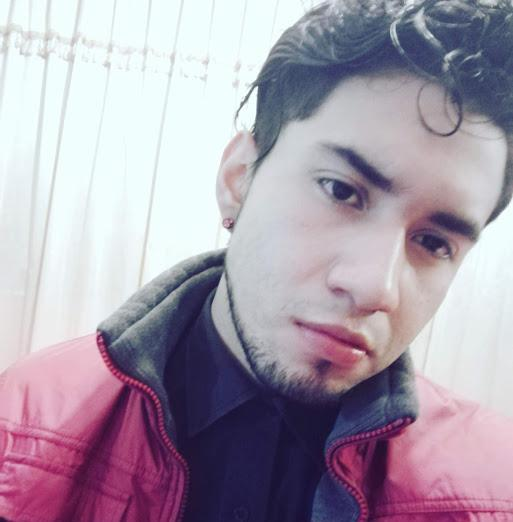
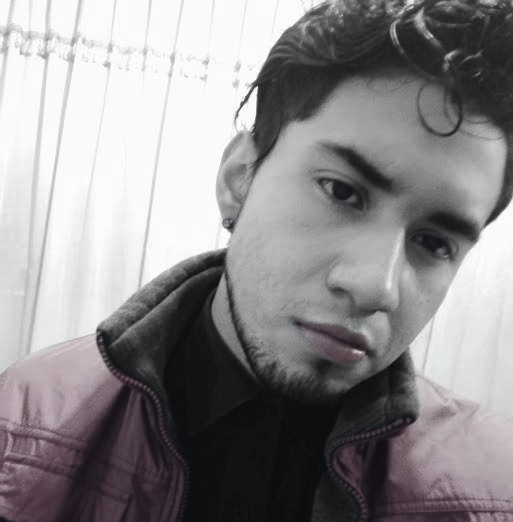
improve-photo-galery

diff --git a/photo/assets/css/main.css b/photo/assets/css/main.css
@@ -1411,12 +1411,13 @@
 	body {
 		background-color: rgb(31, 31, 31);
 		background: rgb(16,72,88);
-	background: -moz-linear-gradient(0deg, rgba(16,72,88,1) 0%, rgba(51,51,51,1) 100%);
-	background: -webkit-linear-gradient(0deg, rgba(16,72,88,1) 0%, rgba(51,51,51,1) 100%);
-	background: linear-gradient(0deg, rgba(16,72,88,1) 0%, rgba(51,51,51,1) 100%);
+	background: -moz-linear-gradient(0deg, rgb(9, 33, 39) 0%, rgb(32, 32, 32) 100%);
+	background: -webkit-linear-gradient(0deg, rgba(9, 33, 39,1) 0%, rgba(32, 32, 32,1) 100%);
+	background: linear-gradient(0deg, rgba(9, 33, 39,1) 0%, rgba(32, 32, 32,1) 100%);
 	filter: progid:DXImageTransform.Microsoft.gradient(startColorstr="#104858",endColorstr="#333333",GradientType=1);
 		/* background-image: url("../../images/bg.jpg"); */
 		background-size: cover;
+		background-attachment: fixed;
 		background-position: top center;
 	}
 
@@ -1925,8 +1926,8 @@
 			border-radius: 4px;
 			display: block;
 			opacity: 0.5;
+			
 		}
-
 		.image.left, .image.right {
 			max-width: 40%;
 		}
@@ -2416,9 +2417,15 @@
 		}
 
 			.thumbnails a img:hover {
+				-webkit-filter: grayscale(0);
+  			filter: none;
 				opacity: 1;
 			}
 			.thumbnails a img {
+				-moz-transition: all 1s;
+				filter: gray; /* IE6-9 */
+				-webkit-filter: grayscale(1); /* Google Chrome, Safari 6+ & Opera 15+ */
+				filter: grayscale(1); /* Microsoft Edge and Firefox 35+ */
 				display: block;
 				width: 100%;
 				opacity: 0.6;
@@ -2569,7 +2576,7 @@
 /* Wrapper */
 
 	#wrapper {
-		max-width: 68em;
+		max-width: 80em;
 		width: 100%;
 		margin: 0 auto;
 		padding: 0 2em;
@@ -2599,17 +2606,25 @@
 /* Header */
 
 	#header {
-		text-align: center;
 		padding: 1.5em 0 0.5em 0;
+		width: 100%;
+		min-height: 16em;
+		max-width: 80em;
+
 	}
 
+		#header h2, h1 {
+			text-align: center;
+		}
 		#header h1 {
+			text-align: center;
+			font-weight: bold;
 			color: rgba(255, 255, 255, 0.65);
 		}
 
 		#header .avatar {
-			border-radius: 100%;
-			display: inline-block;
+			float: left;
+			border-radius: 3px;
 			margin: 0 0 2em 0;
 			padding: 0.5em;
 			border: solid 1px rgba(255, 255, 255, 0.25);
@@ -2617,7 +2632,7 @@
 		}
 
 			#header .avatar img {
-				border-radius: 100%;
+				border-radius:2px;
 				display: block;
 				width: 10em;
 			}

diff --git a/photo/index.html b/photo/index.html
@@ -18,8 +18,13 @@
 
 				<!-- Header -->
 					<header id="header">
-						<span class="avatar"><img src="images/me.jpg" alt="" /></span>
-						<h2>El arte soy yo, la ciencia es nosotros... <a> Bernard</a></h2>
+						<h1><a href="../index.html">@XfirePc - Photography</a></h1>
+						<h2>
+								El arte y la ciencia, pueden ir de la mano y completar a una persona en aspectos que ni siquiera el sabia <br>que necesitaba.
+								La vida es demasiado corta para pasar desapercibido cada instante de nuestro alrededor, <br>y que hermosa forma de capturar el tiempo en una fotografía.
+						
+						
+							</h2>
 						<!-- <ul class="icons">
 							<li><a href="#" class="icon style2 fa-twitter"><span class="label">Twitter</span></a></li>
 							<li><a href="#" class="icon style2 fa-facebook"><span class="label">Facebook</span></a></li>
@@ -37,35 +42,28 @@
 								<div>
 									<a href="images/fulls/img1.jpeg">
 										<img src="images/fulls/img1.jpeg" alt="" />
-										<h3>El arte y la ciencia si</h3>
 									</a>
 									<a href="images/fulls/img6.jpeg">
 										<img src="images/fulls/img6.jpeg" alt="" />
-										<h3>Lorem ipsum dolor sit amet</h3>
 									</a>
 								</div>
 								<div>
 									<a href="images/fulls/img9.jpeg">
 										<img src="images/fulls/img9.jpeg" alt="" />
-										<h3>pueden ir de la mano</h3>
 									</a>
 									<a href="images/fulls/img3.jpeg">
 										<img src="images/fulls/img3.jpeg" alt="" />
-										<h3>Lorem ipsum dolor sit amet</h3>
 									</a>
 									<a href="images/fulls/img7.jpeg">
 										<img src="images/fulls/img7.jpeg" alt="" />
-										<h3>Lorem ipsum dolor sit amet</h3>
 									</a>
 								</div>
 								<div>
 									<a href="images/fulls/img8.jpeg">
 										<img src="images/fulls/img8.jpeg" alt="" />
-										<h3>Lorem ipsum dolor sit amet</h3>
 									</a>
 									<a href="images/fulls/img2.jpeg">
 										<img src="images/fulls/img2.jpeg" alt="" />
-										<h3>Lorem ipsum dolor sit amet</h3>
 									</a>
 								</div>
 							</section>
